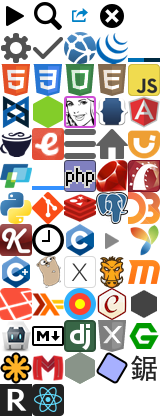
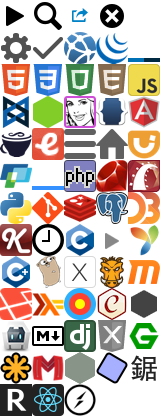
Add Socket.IO documentation

Changed region(s): [[0.375, 0.9062, 0.625, 1.0]]

diff --git a/assets/stylesheets/pages/_socketio.scss b/assets/stylesheets/pages/_socketio.scss
@@ -1,0 +1,24 @@
+._socketio {
+  > h2 { @extend %block-heading; }
+  > h3 { @extend %block-label, %label-blue; }
+  > h2, > h3 { clear: both; }
+  h4 { font-size: 1em; }
+
+  .ezcol-one-half {
+    margin: .5em 0 1.5em;
+    float: left;
+    width: 50%;
+    padding-right: .5em;
+    @extend %border-box;
+
+    &.ezcol-last {
+      float: right;
+      padding: 0 0 0 .5em;
+    }
+
+    > h4 { margin: 0 0 1em; }
+    > pre { margin: 1em 0 0; }
+  }
+
+  code { @extend %label; }
+}

diff --git a/assets/stylesheets/global/_icons.scss b/assets/stylesheets/global/_icons.scss
@@ -74,3 +74,4 @@
 ._icon-nokogiri:before      { background-position: -4rem -11rem; }
 ._icon-rethinkdb:before     { background-position: 0 -12rem; }
 ._icon-react:before         { background-position: -1rem -12rem; }
+._icon-socketio:before      { background-position: -2rem -12rem; }

diff --git a/assets/stylesheets/application.css.scss b/assets/stylesheets/application.css.scss
@@ -63,6 +63,7 @@
         'pages/rethinkdb',
         'pages/rfc',
         'pages/sinon',
+        'pages/socketio',
         'pages/sphinx',
         'pages/underscore',
         'pages/yard',

diff --git a/lib/docs/filters/socketio/entries.rb b/lib/docs/filters/socketio/entries.rb
@@ -1,0 +1,27 @@
+module Docs
+  class Socketio
+    class EntriesFilter < Docs::EntriesFilter
+      def get_name
+        at_css('h1').content
+      end
+
+      def get_type
+        'Guides'
+      end
+
+      def additional_entries
+        return [] unless slug.end_with?('api')
+
+        css('h3').each_with_object([]) do |node, entries|
+          name = node.content
+          name.remove! %r{\(.*}
+          name.remove! %r{\:.*}
+
+          unless entries.any? { |entry| entry[0] == name }
+            entries << [name, node['id'], self.name.remove(' API')]
+          end
+        end
+      end
+    end
+  end
+end

diff --git a/lib/docs/filters/socketio/clean_html.rb b/lib/docs/filters/socketio/clean_html.rb
@@ -1,0 +1,25 @@
+module Docs
+  class Socketio
+    class CleanHtmlFilter < Filter
+      def call
+        @doc = at_css('.entry-content')
+
+        css('p > br').each do |node|
+          node.remove unless node.next.content =~ /\s*\-/
+        end
+
+        css('h1, h2, h3').each do |node|
+          next if node == doc.first_element_child
+          node.name = node.name.sub(/\d/) { |i| i.to_i + 1 }
+          node['id'] = node.content.strip.parameterize
+        end
+
+        css('pre').each do |node|
+          node.content = node.content
+        end
+
+        doc
+      end
+    end
+  end
+end

diff --git a/lib/docs/scrapers/socketio.rb b/lib/docs/scrapers/socketio.rb
@@ -1,0 +1,20 @@
+module Docs
+  class Socketio < UrlScraper
+    self.name = 'Socket.IO'
+    self.slug = 'socketio'
+    self.type = 'socketio'
+    self.version = '1.2.1'
+    self.base_url = 'http://socket.io/docs/'
+
+    html_filters.push 'socketio/clean_html', 'socketio/entries'
+
+    options[:container] = '#content'
+    options[:trailing_slash] = false
+    options[:skip] = %w(faq)
+
+    options[:attribution] = <<-HTML
+      &copy; 2014 Automattic<br>
+      Licensed under the MIT License.
+    HTML
+  end
+end
